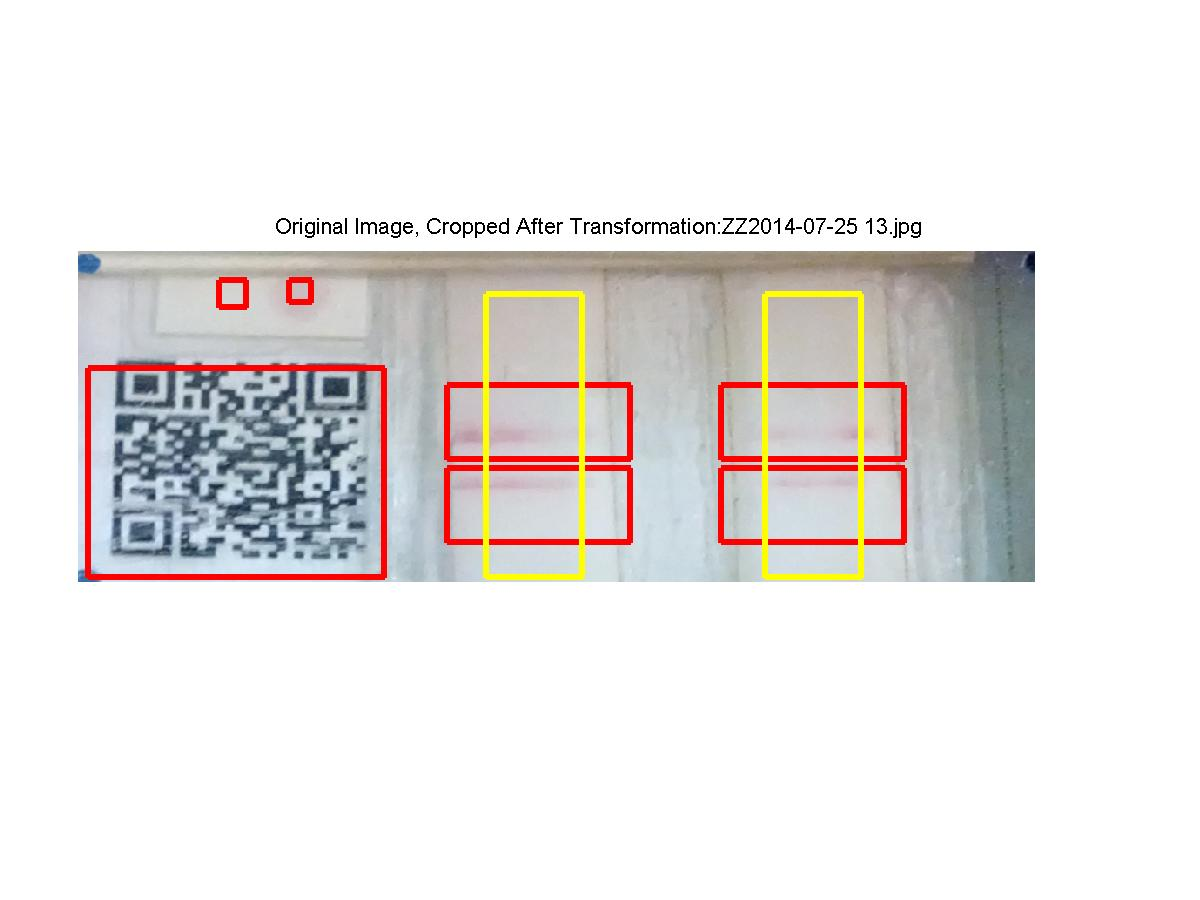
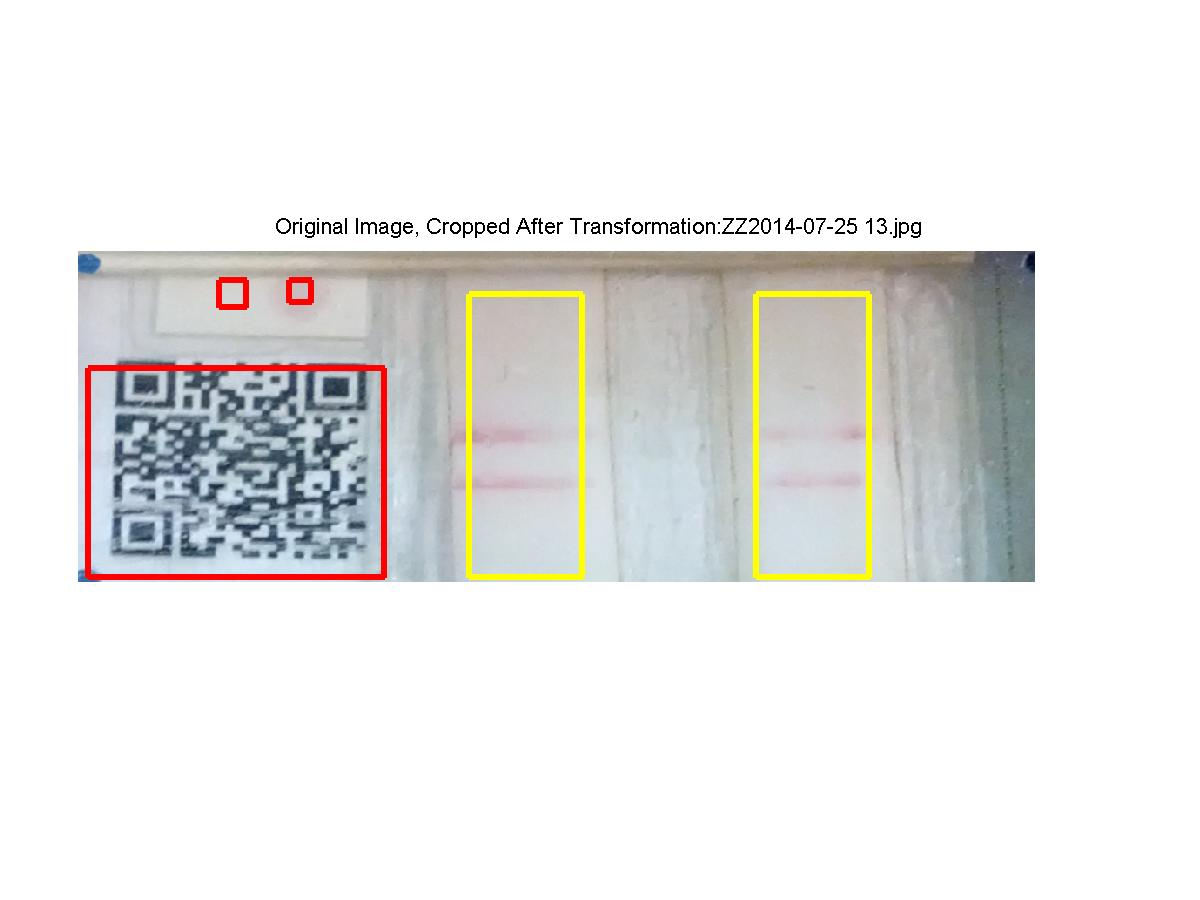
Technically these are CJ's changes - tracking them so that we have a log

Changed region(s): [[0.5858, 0.3111, 0.7708, 0.6533], [0.37, 0.3111, 0.555, 0.6533]]

diff --git a/Common/analyzeMultipleTestsGold.m b/Common/analyzeMultipleTestsGold.m
@@ -128,10 +128,10 @@ if (length(centers) > 4)
         rectangle('Position', qrCode, 'LineWidth', 3, 'EdgeColor', 'r')
         
         % Tests
-        rectangle('Position', testStrip1, 'LineWidth', 3, 'EdgeColor', 'r')
-        rectangle('Position', testStrip2, 'LineWidth', 3, 'EdgeColor', 'r')
-        rectangle('Position', testStrip3, 'LineWidth', 3, 'EdgeColor', 'r')
-        rectangle('Position', testStrip4, 'LineWidth', 3, 'EdgeColor', 'r')
+%         rectangle('Position', testStrip1, 'LineWidth', 3, 'EdgeColor', 'r')
+%         rectangle('Position', testStrip2, 'LineWidth', 3, 'EdgeColor', 'r')
+%         rectangle('Position', testStrip3, 'LineWidth', 3, 'EdgeColor', 'r')
+%         rectangle('Position', testStrip4, 'LineWidth', 3, 'EdgeColor', 'r')
 %         rectangle('Position', testStrip5, 'LineWidth', 3, 'EdgeColor', 'r')
         
        %Full strip ROI        
@@ -145,29 +145,35 @@ if (length(centers) > 4)
         figure(20)
         subplot(2,1,1)
         plot(1:length(avgNormalizedFull1), avgNormalizedFull1, xfit2, polyval(Coeffs1,xfit2), 'r')
+        title('Left Test Strip')
+        xlabel('Pixel Position (top to bottom)')
+        ylabel('Normalized Intensity')
         subplot(2,1,2)
         plot(1:length(avgNormalizedFull2), avgNormalizedFull2, xfit2, polyval(Coeffs2,xfit2), 'r')
+        title('Right Test Strip')
+        xlabel('Pixel Position (top to bottom)')
+        ylabel('Normalized Intensity')
         
         % Plot images of 5 tests
-        processedImage2 =  figure(10 + i * nfiles);
-        title_2 = strcat('Transformed Image: ',strrep(currentfilename,'_','\_'));
-        suptitle(title_2);
-        hold on
-        subplot(3,2,[1,2])
-        imshow(resizedImage);
-        subplot(3,2,3)
-        imshow(firstRectangle)
-        subplot(3,2,5)
-        imshow(secondRectangle)
-        subplot(3,2,4)
-        imshow(thirdRectangle)
-        subplot(3,2,6)
-        imshow(fourthRectangle)
+%         processedImage2 =  figure(10 + i * nfiles);
+%         title_2 = strcat('Transformed Image: ',strrep(currentfilename,'_','\_'));
+%         suptitle(title_2);
+%         hold on
+%         subplot(3,2,[1,2])
+%         imshow(resizedImage);
+%         subplot(3,2,3)
+%         imshow(firstRectangle)
+%         subplot(3,2,5)
+%         imshow(secondRectangle)
+%         subplot(3,2,4)
+%         imshow(thirdRectangle)
+%         subplot(3,2,6)
+%         imshow(fourthRectangle)
 %         subplot(4,2,6)
 %         imshow(fifthRectangle)
         
-        strFirst = strcat('ProcessedImg_', '2_', currentfilename);
-        saveas(processedImage2,fullfile(strcat(dirProcessedImages, '\Location_Tests'), strFirst),'jpg');
+%         strFirst = strcat('ProcessedImg_', '2_', currentfilename);
+%         saveas(processedImage2,fullfile(strcat(dirProcessedImages, '\Location_Tests'), strFirst),'jpg');
         
 %             % Plot test strip intensities
 %             averageIntensities = figure(10 + i * nfiles);
@@ -190,26 +196,26 @@ if (length(centers) > 4)
         %     avgIntensitiesStr = strcat('ProcessedImg_', '3_', currentfilename);
         %     saveas(averageIntensities,fullfile(dirProcessedImages, avgIntensitiesStr),'jpg');
         
-        combinedStr = strcat('Transformed Image - Normalized Test Strip Intensity: ',strrep(currentfilename,'_','\_'));
+%         combinedStr = strcat('Transformed Image - Normalized Test Strip Intensity: ',strrep(currentfilename,'_','\_'));
         %plot profiles of normalized values and fitted line
-        processedImage = figure(11 + i * nfiles);
-        suptitle(combinedStr);
-        hold on
-        subplot(3,2,[1,2])
-        imshow(resizedImage);
-        subplot(3,2,3)
-        plot(1:length(avgIntensityOne),avgNormalizedOne, 'r') %xfit,polyval(Coeffs1,xfit),'r')
-        subplot(3,2,5)
-        plot(1:length(avgIntensityTwo),avgNormalizedTwo,'r') %xfit,polyval(Coeffs2,xfit),'r')
-        subplot(3,2,4)
-        plot(1:length(avgIntensityThree),avgNormalizedThree, 'r') % xfit,polyval(Coeffs3,xfit),'r')
-        subplot(3,2,6)
-        plot(1:length(avgIntensityFour),avgNormalizedFour, 'r') % xfit,polyval(Coeffs4,xfit),'r')
-%         subplot(4,2,6)
-%         plot(1:length(avgIntensityFive), avgNormalizedFive)
+%         processedImage = figure(11 + i * nfiles);
+%         suptitle(combinedStr);
+%         hold on
+%         subplot(3,2,[1,2])
+%         imshow(resizedImage);
+%         subplot(3,2,3)
+%         plot(1:length(avgIntensityOne),avgNormalizedOne, 'r') %xfit,polyval(Coeffs1,xfit),'r')
+%         subplot(3,2,5)
+%         plot(1:length(avgIntensityTwo),avgNormalizedTwo,'r') %xfit,polyval(Coeffs2,xfit),'r')
+%         subplot(3,2,4)
+%         plot(1:length(avgIntensityThree),avgNormalizedThree, 'r') % xfit,polyval(Coeffs3,xfit),'r')
+%         subplot(3,2,6)
+%         plot(1:length(avgIntensityFour),avgNormalizedFour, 'r') % xfit,polyval(Coeffs4,xfit),'r')
+% %         subplot(4,2,6)
+% %         plot(1:length(avgIntensityFive), avgNormalizedFive)
         
-        normalizedStr = strcat('ProcessedImg_','4_', currentfilename);
-        saveas(processedImage,fullfile(strcat(dirProcessedImages, '\Normalized_Tests'), normalizedStr),'jpg');
+%         normalizedStr = strcat('ProcessedImg_','4_', currentfilename);
+%         saveas(processedImage,fullfile(strcat(dirProcessedImages, '\Normalized_Tests'), normalizedStr),'jpg');
         
         outputarray = [black_CS, white_CS, minOne, minTwo, minThree, minFour, minNorm1, minNorm2, minNorm3, minNorm4, slope_up_1, slope_up_2, slope_up_3, slope_up_4, slope_down_1,slope_down_2,slope_down_3,slope_down_4, sum_under_curve_1, sum_under_curve_2, sum_under_curve_3, sum_under_curve_4];
         fprintf(outid, '%s', currentfilename);
@@ -242,8 +248,14 @@ if (length(centers) > 4)
     figure(21)
         subplot(2,1,1)
         plot(xfit3, NewAvgIntensities1)
+        title('Left Test Strip')
+        xlabel('Pixel Position (top to bottom)')
+        ylabel('Normalized Intensity')
         subplot(2,1,2)
         plot(xfit3, NewAvgIntensities2)
+        title('Right Test Strip')
+        xlabel('Pixel Position (top to bottom)')
+        ylabel('Normalized Intensity')
         
     ROINew1 = [NewAvgIntensities1(1:125)', NewAvgIntensities1(240:end)'];
     ROINew2 = [NewAvgIntensities2(1:125)', NewAvgIntensities2(240:end)'];
@@ -253,12 +265,28 @@ if (length(centers) > 4)
     %New cutoff set to 3 Stand. Devs from 0
     SD1 = 3*SDNewAvgIntensities1;
     SD2 = 3*SDNewAvgIntensities2;
-        
-    TestA = find(NewAvgIntensities1(1:190) > SD1);
-    TestB = find(NewAvgIntensities2(1:190) > SD2);
     
+    TestAControl = find(NewAvgIntensities1(125:190) > SD1);
+    TestBControl = find(NewAvgIntensities2(125:190) > SD1);
+    TestA = find(NewAvgIntensities1(190:260) > SD1);
+    TestB = find(NewAvgIntensities2(190:260) > SD2);
+    
+       
     SumTestA = sum(NewAvgIntensities1(TestA));
     SumTestB = sum(NewAvgIntensities2(TestB));
+      
+    figure(22)
+        subplot(2,1,1)
+        hold on
+        plot(xfit3, NewAvgIntensities1, xfit3, SD1, '-')
+        title('Left Test Strip')
+        xlabel('Pixel Position (top to bottom)')
+        ylabel('Normalized Intensity')
+        subplot(2,1,2)
+        plot(xfit3, NewAvgIntensities2, xfit3, SD2, '-')
+        title('Right Test Strip')
+        xlabel('Pixel Position (top to bottom)')
+        ylabel('Normalized Intensity')
     
     if SumTestA > 0 && SumTestB > 0
         msgbox('Channels A and B positive','Diagnosis')

diff --git a/Common/getPolyfit.m b/Common/getPolyfit.m
@@ -13,8 +13,8 @@ function [Coeffs] = getPolyfit( normalizedValues) %indexUp,indexDown,testStrip)
 
 % Option 2: Use greater strip area to make overall polyfit
  
-Xpoly = [1:130, 185:195, 240:length(normalizedValues)];     %look into not using set values for range
-Ypoly = [normalizedValues(1:130)',normalizedValues(185:195)',normalizedValues(240:end)'];
+Xpoly = [1:130, 185:195, 250:length(normalizedValues)];     %look into not using set values for range
+Ypoly = [normalizedValues(1:130)',normalizedValues(185:195)',normalizedValues(250:end)'];
 Coeffs = polyfit(Xpoly,Ypoly,3);   
 
 

diff --git a/analyze_imagesGold.m b/analyze_imagesGold.m
@@ -38,8 +38,8 @@ testStrip3 = [740,155,210,85];
 testStrip4 = [740,250,210,85];
 % testStrip5 = [760,240,210,85];
 
-fullstrip1 = [470,50,110,325];
-fullstrip2 = [790,50,110,325];
+fullstrip1 = [450,50,130,325];
+fullstrip2 = [780,50,130,325];
 
 % Point at which we're calculating the slope & area under the curve
 minValue = 0.97;
